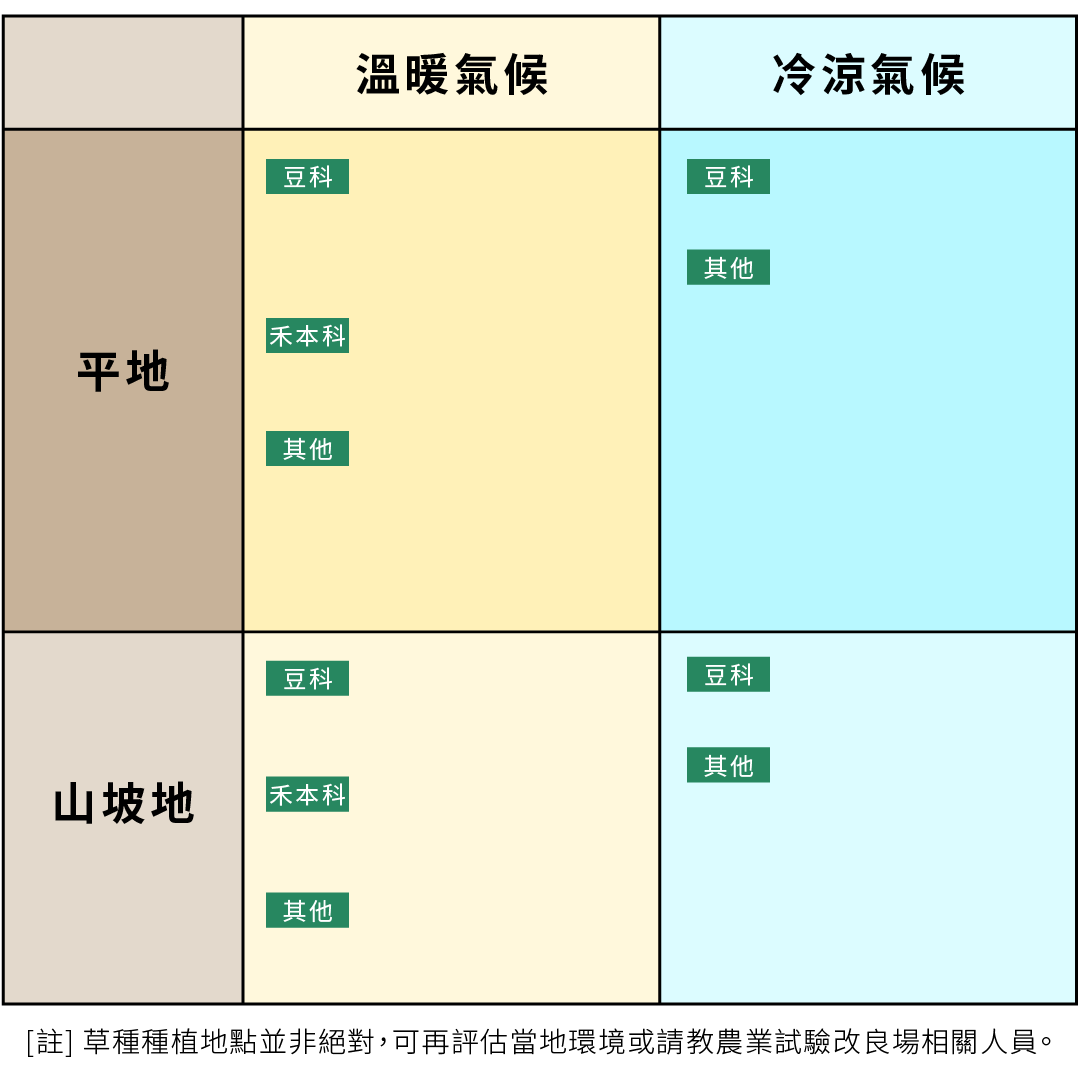
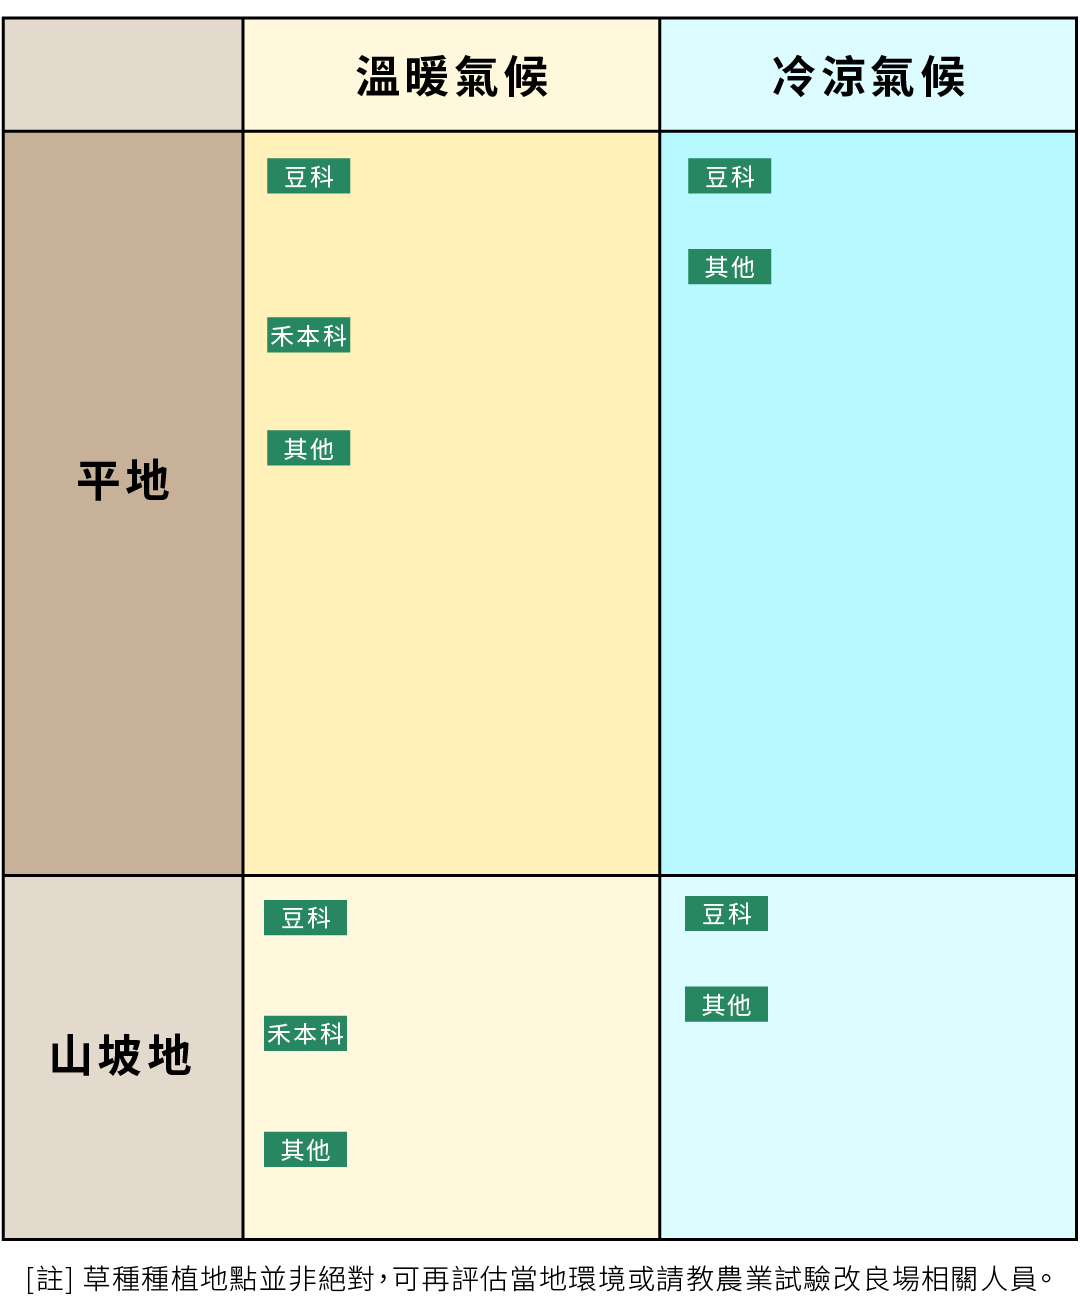
21:26

diff --git a/agriharvest/sodCulture/index.html b/agriharvest/sodCulture/index.html
@@ -41,7 +41,73 @@
 
 <div align="center">
 <a name="000">
-<svg xmlns="http://www.w3.org/2000/svg" xmlns:xlink="http://www.w3.org/1999/xlink" viewBox="0 0 1080 1079.2" version="1.1" width="100%">
+
+<svg xmlns="http://www.w3.org/2000/svg" xmlns:xlink="http://www.w3.org/1999/xlink" viewBox="0 0 1080 1313.48" version="1.1" width="100%">
+
+	<defs><style>.cls-1{font-size:45px;font-family:NotoSansCJKtc-Bold-B5pc-H, Noto Sans CJK TC;font-weight:700;letter-spacing:0.1em;}.cls-2{font-size:32px;font-family:NotoSansCJKtc-Regular-B5pc-H, Noto Sans CJK TC;text-decoration:underline;}.cls-3{fill:none;}</style></defs>
+
+		<g id="選項">
+			<image width="1080" height="1315" transform="translate(0 -0.76)" xlink:href="https://haohsiangko.github.io/agriharvest/sodCulture/0.png"/>
+			<g id="溫暖平地">
+				<a xlink:href="#001"><text class="cls-2" transform="translate(376.22 186.28)">綠肥大豆台南7號</text></a>
+				<a xlink:href="#002"><text class="cls-2" transform="translate(266.22 231.61)">蔓花生</text></a>
+				<a xlink:href="#003"><text class="cls-2" transform="translate(391.22 231.61)">蠅翼草</text></a>
+				<a xlink:href="#004"><text class="cls-2" transform="translate(516.22 231.61)">煉莢豆</text></a>
+				<a xlink:href="#005"><text class="cls-2" transform="translate(266.22 276.94)">虎爪豆</text></a>
+				<a xlink:href="#006"><text class="cls-2" transform="translate(391.22 276.94)">穗花木藍</text></a>
+				<a xlink:href="#007"><text class="cls-2" transform="translate(376.22 345.28)">地毯草</text></a>
+				<a xlink:href="#008"><text class="cls-2" transform="translate(501.22 345.28)">類地毯草</text></a>
+				<a xlink:href="#009"><text class="cls-2" transform="translate(266.22 387.61)">假儉草</text></a>
+				<a xlink:href="#010"><text class="cls-2" transform="translate(391.22 387.61)">兩耳草</text></a>
+				<a xlink:href="#013"><text class="cls-2" transform="translate(450.22 503.61)">百慕達草</text></a>
+				<a xlink:href="#015"><text class="cls-2" transform="translate(266.22 548.94)">鴨舌癀</text></a>
+				<a xlink:href="#020"><text class="cls-2" transform="translate(386.22 548.94)">馬蹄金</text></a>
+				<a xlink:href="#029"><text class="cls-2" transform="translate(266.22 789.95)">鴨跖草</text></a>
+				<a xlink:href="#030"><text class="cls-2" transform="translate(386.22 789.95)">距花黍</text></a>
+				<a xlink:href="#021"><text class="cls-2" transform="translate(266.22 594.28)">黃花酢漿草</text></a>
+				<a xlink:href="#011"><text class="cls-2" transform="translate(376.22 458.28)">匍根大戟</text></a>
+				<a xlink:href="#012"><text class="cls-2" transform="translate(266.22 503.61)">四瓣馬齒莧</text></a>
+				<a xlink:href="#014"><text class="cls-2" transform="translate(515.61 386.82)">百喜草</text></a>
+				<a xlink:href="#022"><text class="cls-2" transform="translate(450.22 594.28)">菁芳草</text></a>
+				<a xlink:href="#025"><text class="cls-2" transform="translate(266.22 690.94)">紫花藿香薊</text></a>
+				<a xlink:href="#026"><text class="cls-2" transform="translate(453.22 690.94)">鵝兒腸</text></a>
+				<a xlink:href="#027"><text class="cls-2" transform="translate(266.22 740.28)">闊葉鴨舌癀舅</text></a>
+				<a xlink:href="#031"><text class="cls-2" transform="translate(266.22 841.45)">平伏莖白花菜</text></a>
+				<a xlink:href="#028"><text class="cls-2" transform="translate(486.14 740.28)">金腰箭舅</text></a>
+				<a xlink:href="#023"><text class="cls-2" transform="translate(266.22 641.28)">絡石</text></a>
+				<a xlink:href="#024"><text class="cls-2" transform="translate(357.22 641.28)">頭花蓼</text></a>				
+			</g>
+
+			<g id="溫暖山坡">
+				<a xlink:href="#001"><text class="cls-2" transform="translate(372.75 927.93)">綠肥大豆台南7號</text></a>
+				<a xlink:href="#005"><text class="cls-2" transform="translate(373.05 974.29)">虎爪豆</text></a>
+				<a xlink:href="#007"><text class="cls-2" transform="translate(373.05 1043.76)">地毯草</text></a>
+				<a xlink:href="#008"><text class="cls-2" transform="translate(492.44 1043.76)">類地毯草</text></a>
+				<a xlink:href="#009"><text class="cls-2" transform="translate(256.05 1091.84)">假儉草</text></a>
+				<a xlink:href="#010"><text class="cls-2" transform="translate(373.05 1091.84)">兩耳草</text></a>
+				<a xlink:href="#013"><text class="cls-2" transform="translate(372.56 1159.83)">百慕達草</text></a>
+				<a xlink:href="#014"><text class="cls-2" transform="translate(492.44 1091.84)">百喜草</text></a>
+				<a xlink:href="#016"><text class="cls-2" transform="translate(524.44 1159.83)">蟛蜞菊</text></a>
+				<a xlink:href="#022"><text class="cls-2" transform="translate(373.05 1205.39)">菁芳草</text></a>
+			</g>
+
+			<g id="冷涼平地">
+				<a xlink:href="#017"><text class="cls-2" transform="translate(782.83 186.28)">苕子</text></a>
+				<a xlink:href="#018"><text class="cls-2" transform="translate(782.83 231.61)">黃花苜蓿</text></a>
+				<a xlink:href="#019"><text class="cls-2" transform="translate(782.83 276.94)">白花三葉草</text></a>
+				<a xlink:href="#021"><text class="cls-2" transform="translate(782.83 322.28)">黃花酢漿草</text></a>
+				<a xlink:href="#022"><text class="cls-2" transform="translate(782.83 367.61)">菁芳草</text></a>
+			</g>
+
+			<g id="冷涼山坡">
+				<a xlink:href="#017"><text class="cls-2" transform="translate(779.67 923.87)">苕子</text></a>
+				<a xlink:href="#018"><text class="cls-2" transform="translate(779.67 969.2)">黃花苜蓿</text></a>
+				<a xlink:href="#019"><text class="cls-2" transform="translate(779.67 1014.53)">白花三葉草</text></a>
+				<a xlink:href="#022"><text class="cls-2" transform="translate(779.67 1059.87)">菁芳草</text></a>
+			</g>
+		</g>
+	</svg>
+<!-- <svg xmlns="http://www.w3.org/2000/svg" xmlns:xlink="http://www.w3.org/1999/xlink" viewBox="0 0 1080 1079.2" version="1.1" width="100%">
 	<defs>
 		<style>.cls-1{font-size:32px;text-decoration:underline;}.cls-1,.cls-4{font-family:NotoSansCJKtc-Regular-B5pc-H, Noto Sans CJK TC;}.cls-2{fill:none;}.cls-3{fill:#278760;}.cls-4{font-size:24px;fill:#fff;letter-spacing:0.1em;}
 		</style>
@@ -128,13 +194,6 @@
 				<a xlink:href="#022">
 					<text class="cls-1" transform="translate(450.22 594.28)">菁芳草</text>
 				</a>	
-				
-				<rect class="cls-3" x="266.22" y="158.12" width="82.78" height="34.88"/>
-				<text class="cls-4" transform="translate(282.41 185.45)">豆科</text>
-				<rect class="cls-3" x="266.22" y="317.12" width="82.78" height="34.88"/>
-				<text class="cls-4" transform="translate(269.21 344.45)">禾本科</text>
-				<rect class="cls-3" x="266.22" y="430.12" width="82.78" height="34.88"/>
-				<text class="cls-4" transform="translate(282.41 457.45)">其他</text>
 			</g>
 
 			<g id="溫暖山坡">
@@ -177,13 +236,6 @@
 				<a xlink:href="#022">
 					<text class="cls-1" transform="translate(376.22 965.58)">菁芳草</text>
 				</a>
-				
-				<rect class="cls-3" x="266.22" y="659.96" width="82.78" height="34.88"/>
-				<text class="cls-4" transform="translate(282.41 687.29)">豆科</text>
-				<rect class="cls-3" x="266.22" y="775.78" width="82.78" height="34.88"/>
-				<text class="cls-4" transform="translate(269.21 803.11)">禾本科</text>
-				<rect class="cls-3" x="266.22" y="891.82" width="82.78" height="34.88"/>
-				<text class="cls-4" transform="translate(282.41 919.15)">其他</text>
 			</g>
 
 			<g id="冷涼平地">
@@ -206,11 +258,6 @@
 				<a xlink:href="#022">
 					<text class="cls-1" transform="translate(782.83 367.61)">菁芳草</text>
 				</a>
-				
-				<rect class="cls-3" x="687.22" y="158.12" width="82.78" height="34.88"/>
-				<text class="cls-4" transform="translate(703.41 185.45)">豆科</text>
-				<rect class="cls-3" x="687.22" y="248.78" width="82.78" height="34.88"/>
-				<text class="cls-4" transform="translate(703.41 276.11)">其他</text>
 			</g>
 
 			<g id="冷涼山坡">
@@ -229,14 +276,9 @@
 				<a xlink:href="#022">
 					<text class="cls-1" transform="translate(782.83 820.05)">菁芳草</text>
 				</a>
-				
-				<rect class="cls-3" x="687.22" y="655.89" width="82.78" height="34.88"/>
-				<text class="cls-4" transform="translate(703.41 683.22)">豆科</text>
-				<rect class="cls-3" x="687.22" y="746.56" width="82.78" height="34.88"/>
-				<text class="cls-4" transform="translate(703.41 773.89)">其他</text>
 			</g>
 		</g>
-</svg>
+</svg> -->
 
 <!-- 1_綠肥大豆台南7號 -->
 <a name="001"></a>
